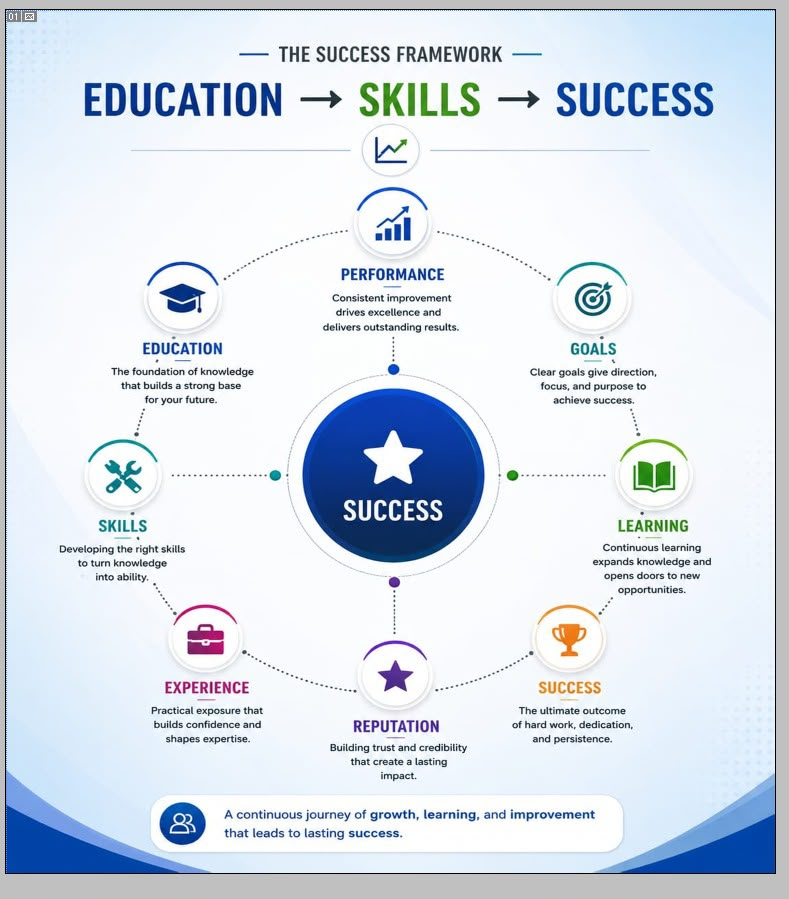
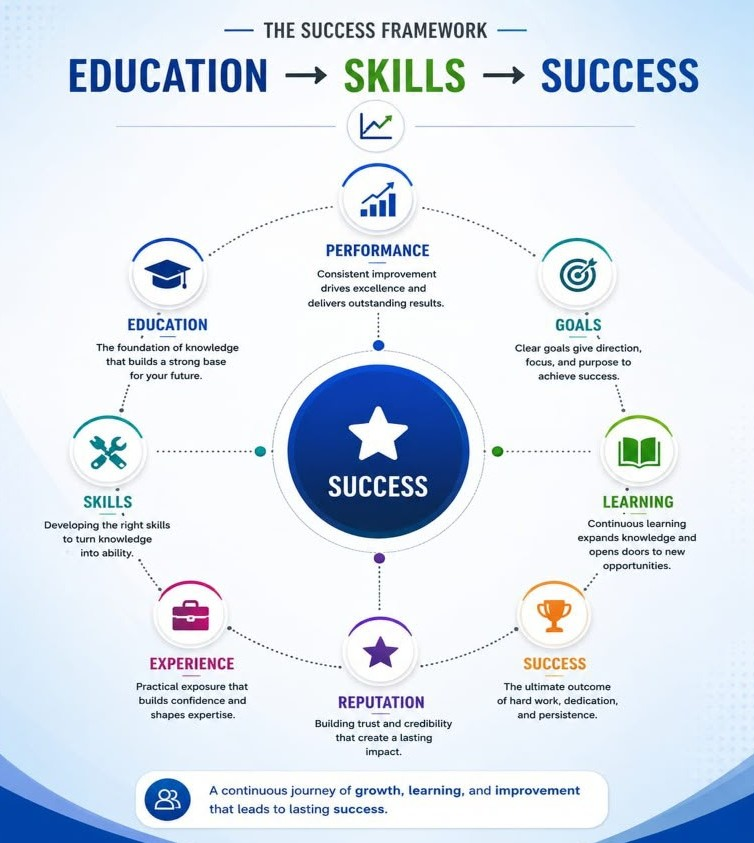
Increase Angular build budgets

diff --git a/src/app/components/about/about.html b/src/app/components/about/about.html
@@ -239,28 +239,14 @@
             <p>If you believe in God, you believe that God's creation is wonderful -and you are created by God. So you are also wonderful and you can do many wonderful things. <strong>Sharing is Caring</strong> -so do share your problems and questions with us and we will give you the solution.</p>
           </div>
         </div>
-        <div class="approach-diagram reveal-el" #revealEl>
-          <div class="diagram-title">
-            <span class="section-label">The Success Framework</span>
-            <h4>Education → Skills → Success</h4>
-          </div>
-          <div class="success-wheel">
-            <div class="wheel-center">
-              <i class="fas fa-star"></i>
-              <span>SUCCESS</span>
-            </div>
-            <div class="wheel-items">
-              <div class="wheel-item top"><i class="fas fa-chart-line"></i><span>Performance</span></div>
-              <div class="wheel-item top-right"><i class="fas fa-bullseye"></i><span>Goals</span></div>
-              <div class="wheel-item right"><i class="fas fa-book-open"></i><span>Learning</span></div>
-              <div class="wheel-item bottom-right"><i class="fas fa-trophy"></i><span>Success</span></div>
-              <div class="wheel-item bottom"><i class="fas fa-star"></i><span>Reputation</span></div>
-              <div class="wheel-item bottom-left"><i class="fas fa-briefcase"></i><span>Experience</span></div>
-              <div class="wheel-item left"><i class="fas fa-tools"></i><span>Skills</span></div>
-              <div class="wheel-item top-left"><i class="fas fa-graduation-cap"></i><span>Education</span></div>
-            </div>
-          </div>
-        </div>
+     <div class="about-img-frame diagram-frame reveal-el" #revealEl>
+  <img
+    src="/ourApproach.jpeg"
+    alt="Student rediscovering their career path"
+    onerror="this.onerror=null; this.src='https://picsum.photos/700/500?random=40';"
+  />
+</div>
+
       </div>
     </div>
 

diff --git a/src/app/components/about/about.css b/src/app/components/about/about.css
@@ -1315,3 +1315,27 @@
   .philosophy-grid { grid-template-columns: 1fr; }
   .grove-stat { padding: 14px 16px; gap: 12px; }
 }
+
+
+
+/* ── Diagram Frame variant (infographic images like ourApproach.jpeg) ── */
+.about-img-frame.diagram-frame::before,
+.about-img-frame.diagram-frame::after {
+  content: none;
+}
+
+.about-img-frame.diagram-frame img {
+  display: block;
+  width: 100%;
+  height: auto;
+  max-height: 560px;
+  object-fit: contain;
+  border-radius: 0;
+  box-shadow: none;
+}
+
+@media (max-width: 768px) {
+  .about-img-frame.diagram-frame img {
+    max-height: 420px;
+  }
+}
